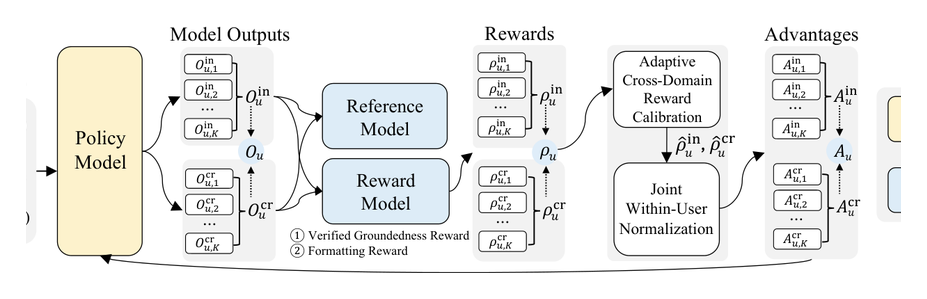
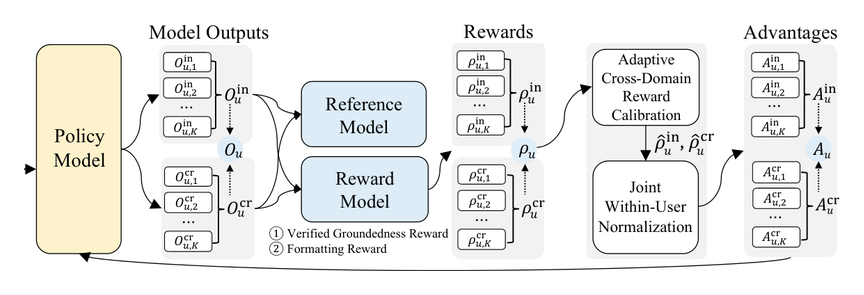
Refine the page layout and add a Press section
- Separate publications with rules and unify teaser boxes
- Lay out Talks like Experience and shorten the intro
- Combine reviewer history and keep journal metrics together
- Add press coverage with photos

Changed region(s): [[0.0312, 0.061, 1.0, 0.9458]]

diff --git a/index.html b/index.html
@@ -161,8 +161,8 @@
     .portrait img { position: absolute; inset: 0; width: 100%; height: 100%; object-fit: cover; }
 
     /* Sections */
-    section { margin-top: 64px; }
-    h2 { margin: 0 0 18px; font-size: 24px; line-height: 1.25; font-weight: 600; letter-spacing: -0.005em; }
+    section { margin-top: 68px; }
+    h2 { margin: 0 0 20px; font-size: 24px; line-height: 1.25; font-weight: 600; letter-spacing: -0.005em; }
 
     /* News */
     .news { list-style: none; margin: 0; padding: 0; }
@@ -177,7 +177,7 @@
     .news p { max-width: 66ch; }
 
     /* Publications */
-    .pub-key { margin: -6px 0 30px; font-family: var(--sans); font-size: 15px; color: var(--slate); }
+    .pub-key { margin: -6px 0 26px; font-family: var(--sans); font-size: 15px; color: var(--slate); }
     .live-dot {
       display: inline-block;
       width: 8px;
@@ -192,8 +192,10 @@
       display: grid;
       grid-template-columns: 220px minmax(0, 1fr);
       gap: 26px;
-      margin-bottom: 36px;
+      padding: 28px 0;
+      border-top: 1px solid var(--rule);
     }
+    .pub-key + .pub { padding-top: 0; border-top: 0; }
     .teaser {
       position: relative;
       display: grid;
@@ -205,9 +207,9 @@
       background: var(--tile);
     }
     .teaser::before { content: attr(data-label); font: 600 24px/1 var(--serif); color: var(--tile-ink); letter-spacing: 0.01em; }
-    .teaser img { position: absolute; inset: 0; width: 100%; height: 100%; object-fit: contain; }
-    .teaser.loaded { background: #ffffff; }
-    :root[data-theme="dark"] .teaser.loaded img { filter: brightness(0.92); }
+    .teaser img { position: absolute; inset: 6px; width: calc(100% - 12px); height: calc(100% - 12px); object-fit: contain; }
+    .teaser.loaded { background: #ffffff; box-sizing: border-box; border: 1px solid var(--rule); }
+    :root[data-theme="dark"] .teaser.loaded { filter: brightness(0.86); }
     .pub-title { margin: 0; font-size: 18px; line-height: 1.36; font-weight: 600; }
     .pub-title a { color: var(--ink); }
     .authors { margin-top: 6px; font-family: var(--sans); font-size: 15.5px; line-height: 1.45; color: var(--slate); }
@@ -226,6 +228,7 @@
       color: var(--slate);
       vertical-align: 0.08em;
     }
+    .metric { white-space: nowrap; }
     .award { margin-left: 10px; font-family: var(--sans); font-size: 14.5px; font-weight: 600; color: var(--award); white-space: nowrap; }
     .impact { margin-top: 6px; font-family: var(--sans); font-size: 15px; font-weight: 600; color: var(--live); }
     .summary { margin-top: 8px; font-size: 16.5px; }
@@ -245,6 +248,12 @@
     .cv-what p { margin-top: 2px; }
     .plain { list-style: none; margin: 0; padding: 0; }
     .plain li + li { margin-top: 8px; }
+
+    /* Press */
+    .press { list-style: none; margin: 0; padding: 0; }
+    .press li { display: grid; grid-template-columns: 136px minmax(0, 1fr); gap: 20px; align-items: center; padding: 10px 0; }
+    .press img { display: block; width: 100%; aspect-ratio: 16 / 10; object-fit: cover; border-radius: 6px; background: var(--tile); }
+    .press-meta { margin-top: 2px; font-family: var(--sans); font-size: 15px; color: var(--slate); }
 
     footer { margin-top: 72px; font-family: var(--sans); font-size: 14px; color: var(--slate); }
 
@@ -285,6 +294,7 @@
       .teaser { max-width: 420px; }
       .teaser:not(.loaded) { display: none; }  /* on phones, skip acronym tiles and show only real figures */
       .cv-list li { grid-template-columns: 1fr; gap: 0; }
+      .press li { grid-template-columns: 96px minmax(0, 1fr); gap: 14px; }
     }
     @media print {
       .theme-toggle { display: none; }
@@ -308,21 +318,15 @@
         <p class="thesis">I build AI systems that keep learning from the live services they power.</p>
         <p class="bio">
           I am a Lead ML Researcher and Team Lead at <a href="https://www.sktelecom.com/">SK Telecom</a>,
-          where my team builds and runs the recommender systems and LLMs behind SKT’s apps and services,
-          from data pipelines and training to real-time serving, monitoring, and updates.
+          where my team builds and runs the recommender systems and LLMs behind SKT’s apps and services.
           I joined SKT as a data scientist in 2018 and received my Ph.D. from the Kim Jaechul Graduate School of AI at <a href="https://gsai.kaist.ac.kr/">KAIST</a> in 2024,
           advised by <a href="https://sites.google.com/site/jaegulchoo/">Jaegul Choo</a>.
         </p>
         <p class="bio">
           My research is on self-improving AI systems that learn from the outcomes of their own decisions.
-          I take problems from production, turn them into research questions, and test the answers back in the service through large-scale online A/B tests.
-          This work began with cross-domain recommendation across services, moved to LLMs that combine behavioral patterns with semantic information,
-          and now uses reinforcement learning to optimize user preferences and update models from live feedback.
-        </p>
-        <p class="bio">
-          I focus on three directions: feedback-driven adaptive AI, which improves models and decision policies from real-world feedback;
-          real-time and efficient AI, which balances accuracy against latency and cost;
-          and agentic work automation, where agents carry out tasks, verify the results, and improve their own procedures.
+          I take problems from production, turn them into research questions, and test the answers in large-scale online A/B tests.
+          This work spans cross-domain recommendation, LLM-based recommenders, and reinforcement learning,
+          and now focuses on feedback-driven adaptive AI, real-time and efficient AI, and agentic work automation.
         </p>
         <ul class="links">
           <li><a href="mailto:cpark88kr@gmail.com"><svg viewBox="0 0 24 24" aria-hidden="true"><g fill="none" stroke="currentColor" stroke-width="2" stroke-linecap="round" stroke-linejoin="round"><rect x="3" y="5" width="18" height="14" rx="2"/><path d="M3.5 7.5 12 13l8.5-5.5"/></g></svg>cpark88kr@gmail.com</a></li>
@@ -494,7 +498,7 @@
         <div>
           <h3 class="pub-title"><a href="https://doi.org/10.1016/j.techfore.2020.120146">Early detection of valuable patents using a deep learning model: Case of semiconductor industry</a></h3>
           <p class="authors"><strong>Chung Park</strong>, So Young Sohn</p>
-          <p class="venue"><span class="pub-type">Journal</span><em>Technological Forecasting and Social Change</em> 2020, SCIE, IF 12.0</p>
+          <p class="venue"><span class="pub-type">Journal</span><em>Technological Forecasting and Social Change</em> 2020, <span class="metric">SCIE, IF 12.0</span></p>
           <p class="pub-links"><a href="https://doi.org/10.1016/j.techfore.2020.120146">Paper</a></p>
         </div>
       </article>
@@ -504,7 +508,7 @@
         <div>
           <h3 class="pub-title"><a href="https://doi.org/10.1016/j.tra.2019.05.005">Recommendation of feeder bus routes using neural network embedding-based optimization</a></h3>
           <p class="authors"><strong>Chung Park</strong>, Jungpyo Lee, So Young Sohn</p>
-          <p class="venue"><span class="pub-type">Journal</span><em>Transportation Research Part A: Policy and Practice</em> 2019, SCIE, IF 6.4</p>
+          <p class="venue"><span class="pub-type">Journal</span><em>Transportation Research Part A: Policy and Practice</em> 2019, <span class="metric">SCIE, IF 6.4</span></p>
           <p class="pub-links"><a href="https://doi.org/10.1016/j.tra.2019.05.005">Paper</a></p>
         </div>
       </article>
@@ -514,7 +518,7 @@
         <div>
           <h3 class="pub-title"><a href="https://doi.org/10.1016/j.tra.2017.08.019">An optimization approach for the placement of bicycle-sharing stations to reduce short car trips: An application to the city of Seoul</a></h3>
           <p class="authors"><strong>Chung Park</strong>, So Young Sohn</p>
-          <p class="venue"><span class="pub-type">Journal</span><em>Transportation Research Part A: Policy and Practice</em> 2017, SCIE, IF 6.4</p>
+          <p class="venue"><span class="pub-type">Journal</span><em>Transportation Research Part A: Policy and Practice</em> 2017, <span class="metric">SCIE, IF 6.4</span></p>
           <p class="pub-links"><a href="https://doi.org/10.1016/j.tra.2017.08.019">Paper</a></p>
         </div>
       </article>
@@ -561,14 +565,44 @@
     <!-- ===================== TALKS (newest first; undated talks last) ===================== -->
     <section id="talks" aria-labelledby="talks-h">
       <h2 id="talks-h">Talks</h2>
-      <ul class="plain">
-        <li>Real-time recommender system architecture. Graduate Seminar, Handong Global University, May 2026. <a href="https://csee.handong.edu/67/?q=YToyOntzOjEyOiJrZXl3b3JkX3R5cGUiO3M6MzoiYWxsIjtzOjQ6InBhZ2UiO2k6MTt9&amp;bmode=view&amp;idx=171168604&amp;t=board">Announcement</a></li>
-        <li>Multi-domain recommender systems at SK Telecom and recommender fundamentals. BK Industry-Academia Seminar, Department of Statistics and Data Science, Yonsei University, 2024. <a href="http://bk21-bigdata.yonsei.ac.kr/bbs/board.php?bo_table=industry&amp;wr_id=43">Seminar page</a></li>
-        <li>Multi-domain recommender systems. SK Tech Summit 2023. <a href="https://www.youtube.com/watch?v=jdMNgewmNg4">Video</a></li>
-        <li>Location-based target marketing. SK Tech Summit 2022.</li>
-        <li>Deep-learning recommender systems at SK Telecom and the data scientist role. Guest lecture, Exploring Big Data for Sustainable Development, Department of Industrial Engineering, Yonsei University.</li>
-        <li>Location-based target marketing through spatial data mining. Guest lecture, Quality Engineering, Department of Industrial Engineering, Yonsei University.</li>
-      </ul>
+      <ol class="cv-list">
+        <li>
+          <span class="cv-when">May 2026</span>
+          <div class="cv-what"><strong>Handong Global University</strong><span>, Graduate Seminar</span>
+            <p>Real-time recommender system architecture. <a href="https://csee.handong.edu/67/?q=YToyOntzOjEyOiJrZXl3b3JkX3R5cGUiO3M6MzoiYWxsIjtzOjQ6InBhZ2UiO2k6MTt9&amp;bmode=view&amp;idx=171168604&amp;t=board">Announcement</a></p>
+          </div>
+        </li>
+        <li>
+          <span class="cv-when">2024</span>
+          <div class="cv-what"><strong>Yonsei University</strong><span>, BK Industry-Academia Seminar, Department of Statistics and Data Science</span>
+            <p>Multi-domain recommender systems at SK Telecom and recommender fundamentals. <a href="http://bk21-bigdata.yonsei.ac.kr/bbs/board.php?bo_table=industry&amp;wr_id=43">Seminar page</a></p>
+          </div>
+        </li>
+        <li>
+          <span class="cv-when">2023</span>
+          <div class="cv-what"><strong>SK Tech Summit</strong>
+            <p>Multi-domain recommender systems. <a href="https://www.youtube.com/watch?v=jdMNgewmNg4">Video</a></p>
+          </div>
+        </li>
+        <li>
+          <span class="cv-when">2022</span>
+          <div class="cv-what"><strong>SK Tech Summit</strong>
+            <p>Location-based target marketing.</p>
+          </div>
+        </li>
+        <li>
+          <span class="cv-when"></span>
+          <div class="cv-what"><strong>Yonsei University</strong><span>, Guest lecture, Department of Industrial Engineering</span>
+            <p>Deep-learning recommender systems at SK Telecom and the data scientist role, in the course Exploring Big Data for Sustainable Development.</p>
+          </div>
+        </li>
+        <li>
+          <span class="cv-when"></span>
+          <div class="cv-what"><strong>Yonsei University</strong><span>, Guest lecture, Department of Industrial Engineering</span>
+            <p>Location-based target marketing through spatial data mining, in the course Quality Engineering.</p>
+          </div>
+        </li>
+      </ol>
     </section>
 
     <!-- ===================== SERVICE ===================== -->
@@ -576,12 +610,44 @@
       <h2 id="svc-h">Academic service</h2>
       <ul class="plain">
         <!-- Add other venues you have reviewed for. -->
-        <li>Reviewer, ICLR 2027</li>
-        <li>Reviewer, NeurIPS 2026</li>
-        <li>Reviewer, ICML 2026<span class="award">Gold Reviewer</span></li>
-        <li>Reviewer, ICLR 2026</li>
-        <li>Reviewer, AAAI 2026</li>
-        <li>Reviewer, KDD 2025</li>
+        <li>Reviewer: ICLR 2027, NeurIPS 2026, ICML 2026, ICLR 2026, AAAI 2026, KDD 2025</li>
+        <li>ICML 2026<span class="award">Gold Reviewer</span></li>
+      </ul>
+    </section>
+
+    <!-- ===================== PRESS (newest first) =====================
+         Photo: images/press/<outlet>.jpg (16:10, 480x300). Only coverage that is already public. -->
+    <section id="press" aria-labelledby="press-h">
+      <h2 id="press-h">Press</h2>
+      <ul class="press">
+        <li>
+          <a href="https://zdnet.co.kr/view/?no=20260428090249" tabindex="-1" aria-hidden="true"><img src="images/press/zdnet.jpg" alt=""></a>
+          <div>
+            <p><a href="https://zdnet.co.kr/view/?no=20260428090249">C-APO, on users’ true preferences, presented at ICLR 2026</a></p>
+            <p class="press-meta">ZDNet Korea, Apr 2026 (in Korean). <a href="#capo">Paper entry</a></p>
+          </div>
+        </li>
+        <li>
+          <a href="https://www.inews24.com/view/1931502" tabindex="-1" aria-hidden="true"><img src="images/press/inews24.jpg" alt=""></a>
+          <div>
+            <p><a href="https://www.inews24.com/view/1931502">TWiCE-Rec presented as an oral at AAAI 2026</a></p>
+            <p class="press-meta">iNews24, Jan 2026 (in Korean). <a href="#twicerec">Paper entry</a></p>
+          </div>
+        </li>
+        <li>
+          <a href="https://www.hankyung.com/article/202408051338g" tabindex="-1" aria-hidden="true"><img src="images/press/hankyung.jpg" alt=""></a>
+          <div>
+            <p><a href="https://www.hankyung.com/article/202408051338g">Best Paper Honorable Mention at SIGIR 2024</a></p>
+            <p class="press-meta">The Korea Economic Daily, Aug 2024 (in Korean). <a href="#syncrec">Paper entry</a></p>
+          </div>
+        </li>
+        <li>
+          <a href="https://www.sedaily.com/article/13805712" tabindex="-1" aria-hidden="true"><img src="images/press/sedaily.jpg" alt=""></a>
+          <div>
+            <p><a href="https://www.sedaily.com/article/13805712">FedGeo, on next-location prediction with federated learning</a></p>
+            <p class="press-meta">Seoul Economic Daily, Dec 2023 (in Korean). <a href="#fedgeo">Paper entry</a></p>
+          </div>
+        </li>
       </ul>
     </section>
 

diff --git a/.claude/skills/add-paper/templates.html b/.claude/skills/add-paper/templates.html
@@ -19,7 +19,7 @@
   optional: † (only if Chung Park is the corresponding author), <span class="award"> (only if announced),
             <p class="impact"> (only if the paper or public repo reports a production result).
   venue with a track: <em>CIKM</em> 2026, Full Research Track
-  journal venue: <span class="pub-type">Journal</span><em>{{Journal name}}</em> {{YYYY}}, SCIE, IF {{value from the CV}}, linked by DOI (https://doi.org/...) as "Paper"
+  journal venue: <span class="pub-type">Journal</span><em>{{Journal name}}</em> {{YYYY}}, <span class="metric">SCIE, IF {{value from the CV}}</span>, linked by DOI (https://doi.org/...) as "Paper"
   preprint venue: <span class="pub-type">Preprint</span><em>arXiv</em> {{YYYY}}
   workshop venue: <span class="pub-type">Workshop</span><em>{{Workshop name}}</em>, {{YYYY}}
   links, in this order and only those that exist: Paper, arXiv, Code, Project, Press.
